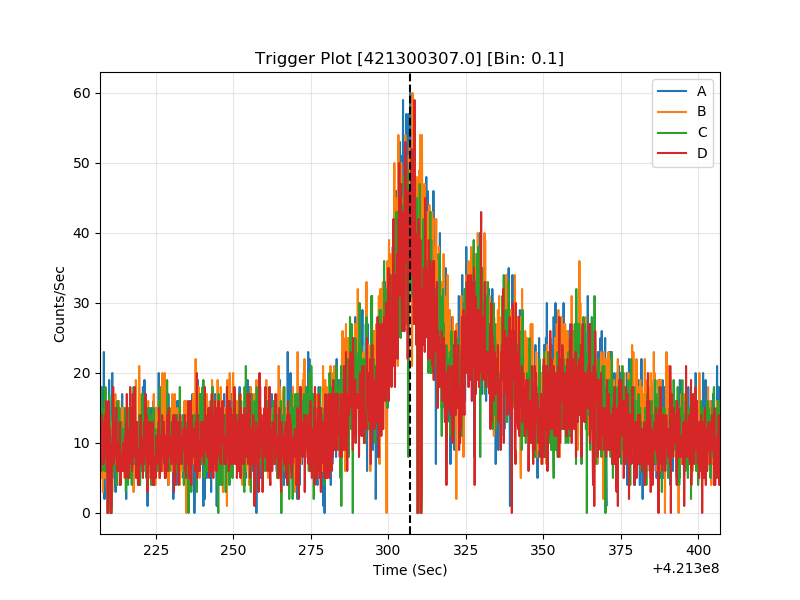
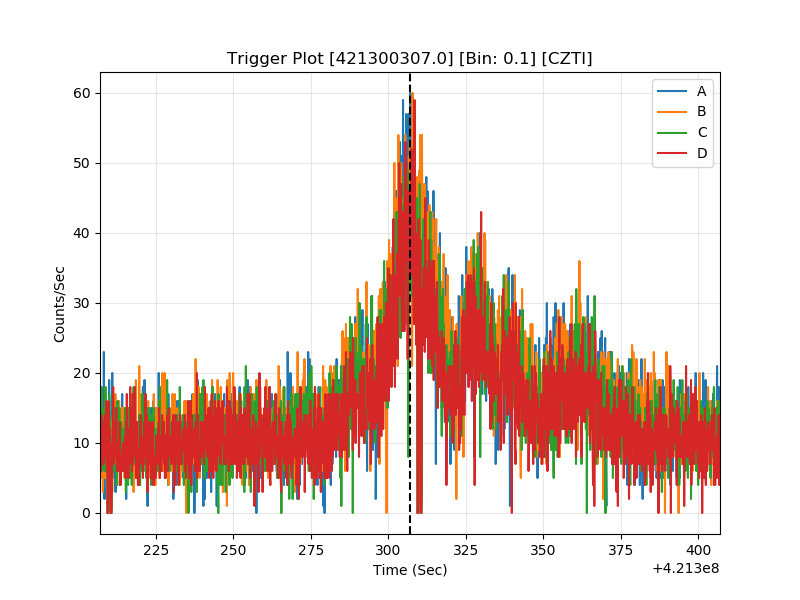
newplots-arun

Changed region(s): [[0.2812, 0.06, 0.75, 0.12]]

diff --git a/makeplots.py b/makeplots.py
@@ -1,0 +1,90 @@
+#Aim: Make plots for triggers (CZTI-0.1,1.0, VETO-1.0)
+from astropy.io import fits
+import matplotlib.pyplot as plt
+import numpy as np
+import os, glob
+plt.rcParams['figure.max_open_warning'] = 0 # Suppress the warning
+
+#Function to make combined lightcurves of VETO and CZTI
+def makeplots(triglist, evtpath, plotfolder):
+        eobs, eorb, east, eutc = triglist[0], triglist[1], triglist[2], triglist[3]
+        evtFile = fits.open(evtpath)
+
+        #Time windows
+        ttime = float(east)
+        tmin = int(ttime - 100)
+        tmax =int(ttime + 100)
+        quadLabel = ['A', 'B', 'C', 'D']
+
+        cbin = [0.1, 1.0, 10.0]
+        for tb in cbin:
+                plt.figure(figsize=(8, 6))
+                for qd in range(4):
+                        #Read & plot CZT data
+                        quadData = evtFile[qd+1].data['Time']
+                        cztQuad = quadData[(quadData > tmin) & (quadData < tmax)]
+                        ctime = np.arange(tmin, tmax + tb / 100.0, tb)
+                        chist, bin_edges = np.histogram(cztQuad, bins=ctime)
+                        cplot= 0.5 * (ctime[1:] + ctime[:-1])
+                        plt.plot(cplot, chist, label=quadLabel[qd])
+                plt.xlabel('Time (Sec)')
+                plt.ylabel('Counts/Sec')
+                plt.grid(True, alpha=0.3)
+                plt.legend()
+                plt.xlim(tmin, tmax)
+                plt.title('Trigger Plot [{}] [Bin: {}] [CZTI]'.format(east, tb))
+                plt.axvline(x=ttime, color='k', linestyle='--')
+                plt.savefig('{}/{}_{}_CZTI.png'.format(plotfolder, east, tb))
+                # plt.show()
+
+        vbin = [int(1), int(10)] #Veto binning needs to be integer
+        for tb in vbin:
+                plt.figure(figsize=(8, 6))
+                for qd in range(4):
+                        #Read & plot VETO data
+                        vetoData = evtFile[5].data
+                        vetoQuad = vetoData[np.where(evtFile[5].data['QuadID'] == qd)]['VetoSpec'][:,0:128]
+                        vetoTime = vetoData[np.where(evtFile[5].data['QuadID'] == qd)]['Time']
+                        vetoTime = vetoTime.astype(int)
+                        bin_start, bin_end = np.where(vetoTime >= tmin)[0][0], np.where(vetoTime <= tmax)[0][-1]
+                        vtime = vetoTime[bin_start:bin_end][0:-1:tb]
+                        vetoQuad = np.array(vetoQuad[bin_start:bin_end])
+                        hveto = []
+                        for i in range(len(vtime)):
+                                hveto.append(np.sum(vetoQuad[tb*i:tb*(i+1)],axis=0))
+                        hveto = np.array(hveto)
+                        vhist = np.nansum(hveto, axis=1) / tb
+                        vplot = 0.5 * (vtime[1:] + vtime[:-1])
+                        if len(vhist)!=len(vplot):
+                                vhist = vhist[:-1]
+                        plt.plot(vplot, vhist, label=quadLabel[qd])
+                plt.xlabel('Time (Sec)')
+                plt.ylabel('Counts/Sec')
+                plt.grid(True, alpha=0.3)
+                plt.legend()
+                plt.xlim(tmin, tmax)
+                plt.title('Trigger Plot [{}] [Bin: {}] [VETO]'.format(east, tb))
+                plt.axvline(x=ttime, color='k', linestyle='--')
+                plt.savefig('{}/{}_{}_VETO.png'.format(plotfolder, east, tb))
+                # plt.show()
+        
+        return
+
+alldata = 'test_data.txt'
+with open(alldata, 'r') as file:
+        lines = [line.strip() for line in file.readlines()]
+datalist = []
+for item in lines:
+        data = item.split(',')
+        datalist.append(data)
+for item in datalist:
+        evtpath = glob.glob('/data2/czti/level2/{}/czti/orbit/{}/modeM0/*_quad_clean.evt'.format(item[0], item[1]))    
+        if evtpath:
+                plotfolder = '/data2/czti/testarea/navaneeth/smt_interface/static/{}'.format(item[2])
+                if not os.path.exists(plotfolder):
+                        os.makedirs(plotfolder)
+                makeplots(item, evtpath[0], plotfolder)
+                print('Plot created - {}'.format(item))
+        else:
+                continue
+
